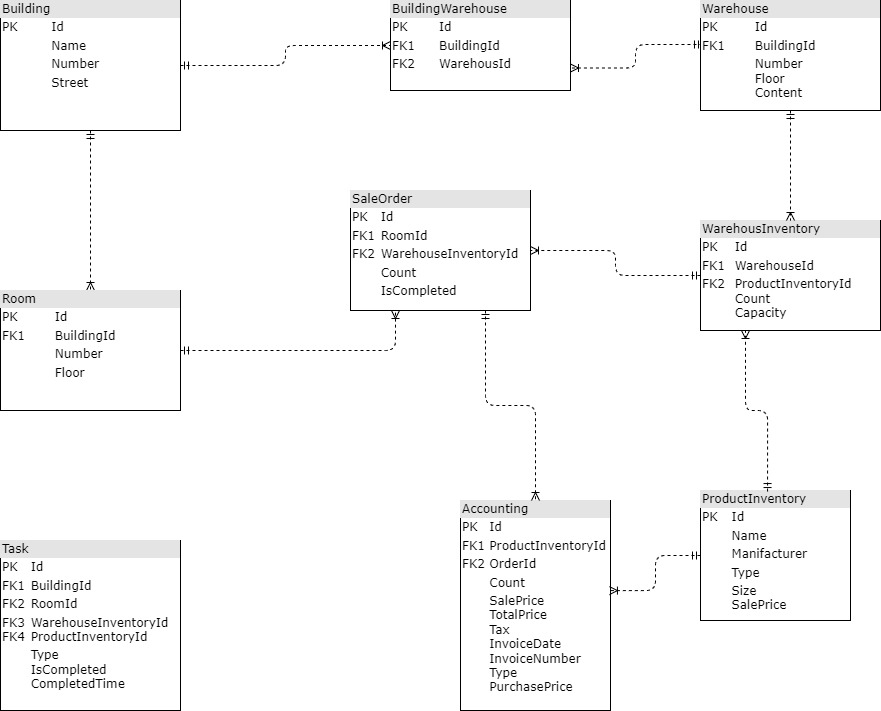
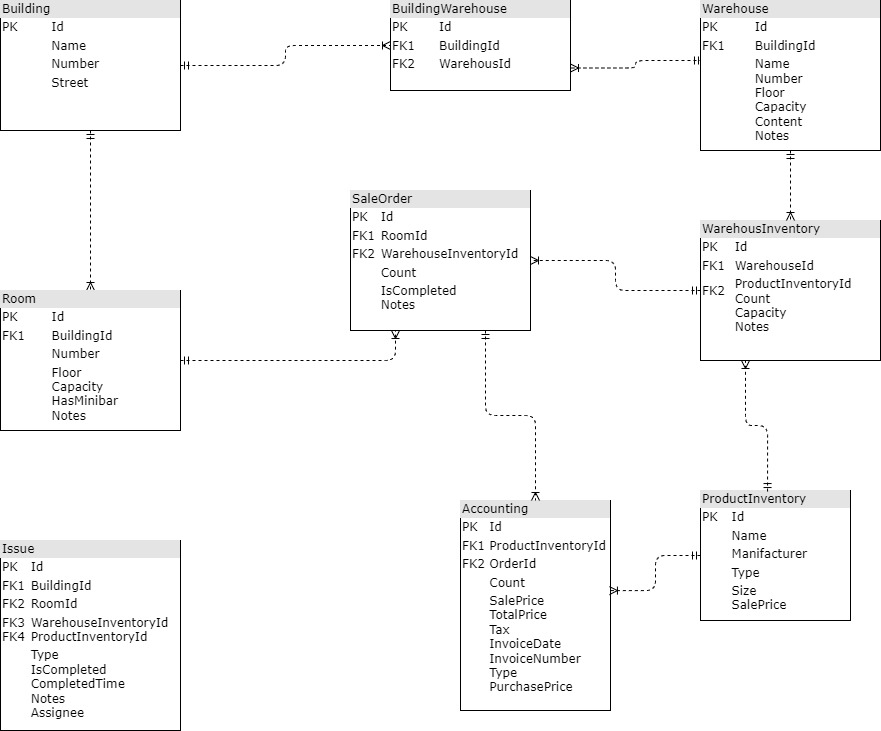
ER Diagram güncellendi. ER diagramda oluşturulan entity'lere ait class lar geliştirildi. Building class ının validasyonları da dahil olmak üzere implemantasyonları tamamlandı.

diff --git a/Infera.TestCase/aspnet-core/src/Infera.TestCase.Domain/Buildings/Building.cs b/Infera.TestCase/aspnet-core/src/Infera.TestCase.Domain/Buildings/Building.cs
@@ -1,0 +1,62 @@
+using System;
+using System.Collections.ObjectModel;
+using System.Diagnostics.CodeAnalysis;
+using Volo.Abp;
+using Volo.Abp.Domain.Entities.Auditing;
+
+namespace Infera.TestCase
+{
+    public class Building : FullAuditedAggregateRoot<Guid>
+    {
+        public virtual string Name { get; protected set; }
+        public virtual string No { get; protected set; }
+        public virtual string? Addres { get; protected set; }
+
+        public virtual Collection<Room> Rooms { get; protected set; } //Sub collection
+
+        protected Building()
+        {
+            /* This constructor is for ORMs to be used while getting the entity from database.
+             * - No need to initialize the Rooms or Warehouses collection
+             *   since it will be overrided from the database.
+             * - It's protected since proxying and deserialization tools
+             *   may not work with private constructors.
+            */ 
+        }
+
+        //Primary constructor
+        public Building(Guid id, 
+                        [NotNull] string name,
+                        [NotNull] string no, 
+                        string addres): base(id) 
+        {
+            SetName(name);
+            SetNo(no);
+            SetAddres(addres);
+
+            //initialize the collections
+
+            Rooms = new Collection<Room>(); 
+
+        }
+
+
+        internal void SetName(string name)
+        {
+            Check.NotNullOrWhiteSpace(name, nameof(name), BuildingConsts.MaxNameLength, BuildingConsts.MinNameLength);
+            Name = name;
+        }
+
+        internal void SetNo(string no)
+        {
+            Check.NotNullOrWhiteSpace(no, nameof(no), BuildingConsts.MaxNoLength);
+            No = no;
+        }
+
+        internal void SetAddres(string addres)
+        {
+            Check.Length(addres, nameof(addres), BuildingConsts.MaxAddresLength);
+            Addres = addres;
+        } 
+    }
+}

diff --git a/Infera.TestCase/aspnet-core/src/Infera.TestCase.Domain/BuildingWarehouses/BuildingWarehouse.cs b/Infera.TestCase/aspnet-core/src/Infera.TestCase.Domain/BuildingWarehouses/BuildingWarehouse.cs
@@ -1,0 +1,47 @@
+using System;
+using System.Diagnostics.CodeAnalysis;
+using Volo.Abp;
+using Volo.Abp.Domain.Entities.Auditing;
+
+namespace Infera.TestCase
+{
+    public class BuildingWarehouse : FullAuditedAggregateRoot<Guid>
+    {
+        public virtual Guid BuildingId { get; protected set; }
+        public virtual Guid WarehouseId { get; protected set; }
+        
+
+        protected BuildingWarehouse()
+        {
+            /* This constructor is for ORMs to be used while getting the entity from database.
+             * - No need to initialize the Rooms or Warehouses collection
+             *   since it will be overrided from the database.
+             * - It's protected since proxying and deserialization tools
+             *   may not work with private constructors.
+            */
+        }
+
+        //Primary constructor
+        public BuildingWarehouse(Guid id, 
+                        [NotNull] Guid buildingId,
+                        [NotNull] Guid warehouseId): base(id) 
+        {
+            SetBuildingId(buildingId);
+            SetWarehouseId(warehouseId);
+        }
+
+
+        internal void SetBuildingId(Guid buildingId)
+        {
+            Check.NotNull(buildingId, nameof(buildingId));
+            BuildingId = buildingId;
+        }
+
+        internal void SetWarehouseId(Guid warehouseId)
+        {
+            Check.NotNull(warehouseId, nameof(warehouseId));
+            WarehouseId = warehouseId;
+        }
+
+    }
+}

diff --git a/Infera.TestCase/aspnet-core/src/Infera.TestCase.Domain/Issues/Issue.cs b/Infera.TestCase/aspnet-core/src/Infera.TestCase.Domain/Issues/Issue.cs
@@ -1,0 +1,23 @@
+using System;
+using Volo.Abp.Domain.Entities.Auditing;
+
+namespace Infera.TestCase
+{
+    public class Issue : FullAuditedAggregateRoot<Guid>
+    {
+        public virtual Guid? BuildingId { get; set; }
+        public virtual Guid? RoomId { get; set; }
+        public virtual Guid? WarehouseInventoryId { get; set; }
+        public virtual Guid? ProductInventoryId { get; set; }
+        public virtual int Number { get; set; }
+        public virtual bool IsCompleted { get; set; }
+        public virtual DateTime? CompletedTime { get; set; }
+        public virtual string? Notes { get; set; }
+        public virtual Guid? Assignee { get; set; }
+
+        public Issue()
+        {
+            
+        }
+    }
+}

diff --git a/Infera.TestCase/aspnet-core/src/Infera.TestCase.Domain/Accountings/Accounting.cs b/Infera.TestCase/aspnet-core/src/Infera.TestCase.Domain/Accountings/Accounting.cs
@@ -1,0 +1,24 @@
+using System;
+using Volo.Abp.Domain.Entities.Auditing;
+
+namespace Infera.TestCase
+{
+    public class Accounting : FullAuditedAggregateRoot<Guid>
+    {
+        public Guid ProductInventoryId { get; set; }
+        public Guid OrderId { get; set; }
+        public int Count { get; set; }
+        public double PurchasePrice { get; set; }
+        public double SalePrice { get; set; }
+        public double TotalPrice { get; set; }
+        public double Tax { get; set; }
+        public DateTime? InvoiceDate { get; set; }
+        public string? InvoiceNumber { get; set; }
+        public AccountingType Type { get; set; }
+
+        public Accounting()
+        {
+            
+        }
+    }
+}

diff --git a/Infera.TestCase/aspnet-core/src/Infera.TestCase.Domain/Warehouses/Warehouse.cs b/Infera.TestCase/aspnet-core/src/Infera.TestCase.Domain/Warehouses/Warehouse.cs
@@ -1,0 +1,22 @@
+using System;
+using Volo.Abp.Domain.Entities.Auditing;
+
+namespace Infera.TestCase
+{
+    public class Warehouse : FullAuditedAggregateRoot<Guid>
+    {
+        public virtual Guid BuildingId { get; set; }
+        public virtual string Name { get; set; } 
+        public virtual  int Number { get; set; } 
+        public virtual int Floor { get; set; }
+        public virtual int Capacity { get; set; }
+        public virtual string? Content { get; set; }
+        public virtual string? Notes { get; set; }
+
+        public Warehouse()
+        {
+            
+        }
+
+    }
+}

diff --git a/Infera.TestCase/aspnet-core/src/Infera.TestCase.Domain/ProductInventories/ProductInventory.cs b/Infera.TestCase/aspnet-core/src/Infera.TestCase.Domain/ProductInventories/ProductInventory.cs
@@ -1,0 +1,20 @@
+using System;
+using Volo.Abp.Domain.Entities.Auditing;
+
+namespace Infera.TestCase
+{
+    public class ProductInventory : FullAuditedAggregateRoot<Guid>
+    {
+        public virtual string Name { get; set; }
+        public virtual string  Manifacturer { get; set; }
+        public virtual PorductInventoryType Type { get; set; }
+        public virtual int Size { get; set; }
+        public virtual bool SalePrice { get; set; }
+        public virtual string? Notes { get; set; }
+
+        public ProductInventory()
+        {
+            
+        }
+    }
+}

diff --git a/Infera.TestCase/aspnet-core/src/Infera.TestCase.Domain/WarehouseInventories/WarehouseInventory.cs b/Infera.TestCase/aspnet-core/src/Infera.TestCase.Domain/WarehouseInventories/WarehouseInventory.cs
@@ -1,0 +1,19 @@
+using System;
+using Volo.Abp.Domain.Entities.Auditing;
+
+namespace Infera.TestCase
+{
+    public class WarehouseInventory : FullAuditedAggregateRoot<Guid>
+    {
+        public virtual Guid WarehouseId { get; set; }
+        public virtual Guid ProductInventoryId { get; set; }
+        public virtual int Count { get; set; } 
+        public virtual int Capacity { get; set; } 
+        public virtual string? Notes { get; set; }
+
+        public WarehouseInventory()
+        {
+            
+        }
+    }
+}

diff --git a/Infera.TestCase/aspnet-core/src/Infera.TestCase.Domain/SaleOrders/SaleOrder.cs b/Infera.TestCase/aspnet-core/src/Infera.TestCase.Domain/SaleOrders/SaleOrder.cs
@@ -1,0 +1,19 @@
+using System;
+using Volo.Abp.Domain.Entities.Auditing;
+
+namespace Infera.TestCase
+{
+    public class SaleOrder : FullAuditedAggregateRoot<Guid>
+    {
+        public virtual Guid RoomId { get; set; }
+        public virtual Guid WarehouseInventoryId { get; set; }
+        public virtual int Count { get; set; }
+        public virtual bool IsCompleted { get; set; }
+        public virtual string? Notes { get; set; }
+
+        public SaleOrder()
+        {
+            
+        }
+    }
+}

diff --git a/Infera.TestCase/aspnet-core/src/Infera.TestCase.Domain.Shared/Building/BuildingConsts.cs b/Infera.TestCase/aspnet-core/src/Infera.TestCase.Domain.Shared/Building/BuildingConsts.cs
@@ -1,0 +1,10 @@
+namespace Infera.TestCase;
+
+public static class BuildingConsts
+{
+    public static int MaxNameLength { get; set; } = 255;
+    public static int MinNameLength { get; set; } = 2;
+    public static int MaxNoLength { get; set; } = 20;
+    public static int MaxAddresLength { get; set; } = 500;
+
+}

diff --git a/Infera.TestCase/aspnet-core/src/Infera.TestCase.Domain.Shared/ProductInventory/PorductInventoryType.cs b/Infera.TestCase/aspnet-core/src/Infera.TestCase.Domain.Shared/ProductInventory/PorductInventoryType.cs
@@ -1,0 +1,10 @@
+
+namespace Infera.TestCase;
+public enum PorductInventoryType
+{
+    None=0,
+    Drink =1,
+    Snack=2,
+    Chocolate=3,
+    Alcohol=4
+}

diff --git a/Infera.TestCase/aspnet-core/src/Infera.TestCase.Domain.Shared/Accounting/AccountingType.cs b/Infera.TestCase/aspnet-core/src/Infera.TestCase.Domain.Shared/Accounting/AccountingType.cs
@@ -1,0 +1,8 @@
+namespace Infera.TestCase;
+
+public enum AccountingType
+{
+    None=0,
+    Input = 1,
+    Output =2
+}
